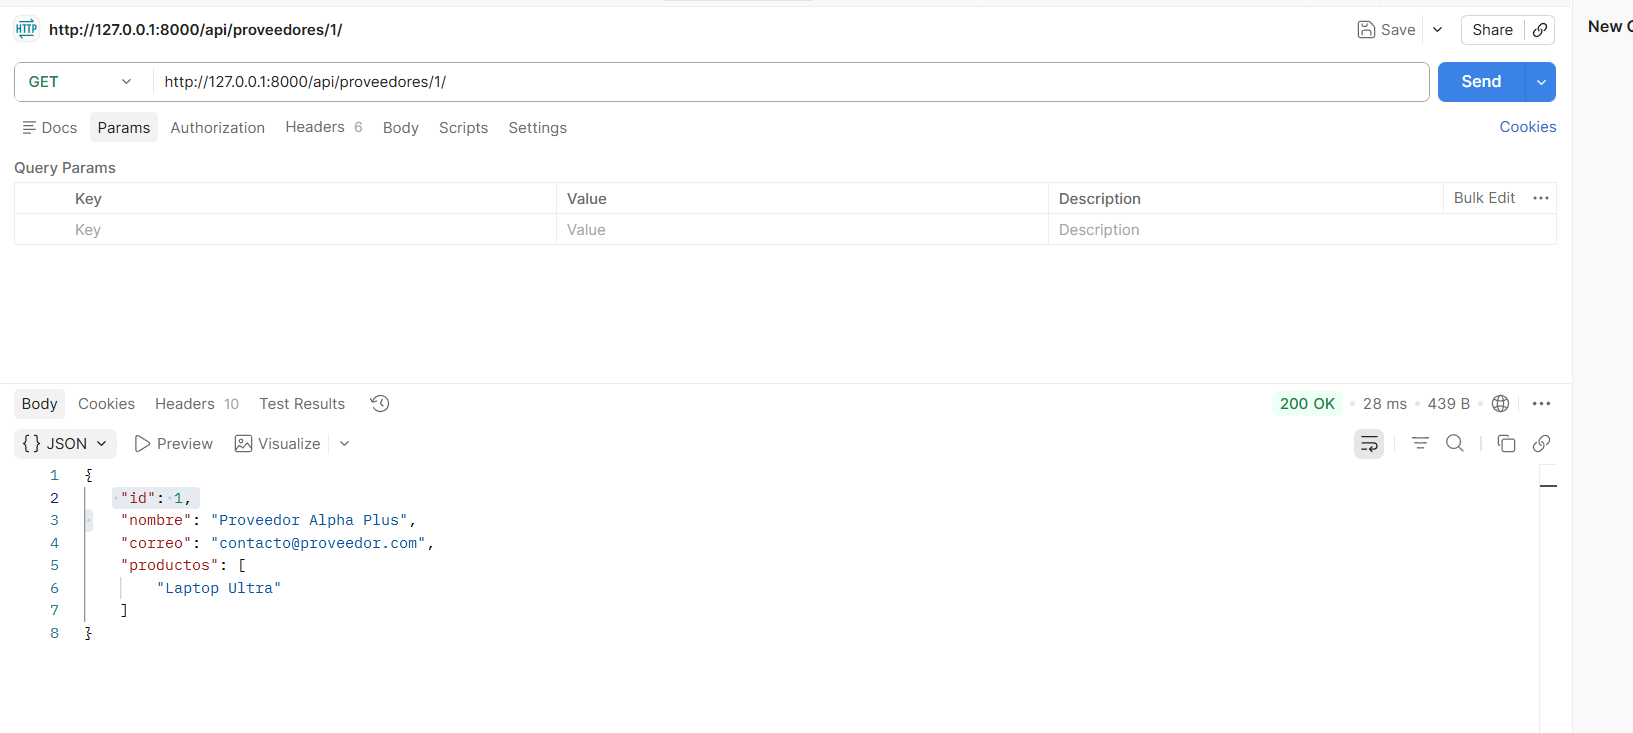
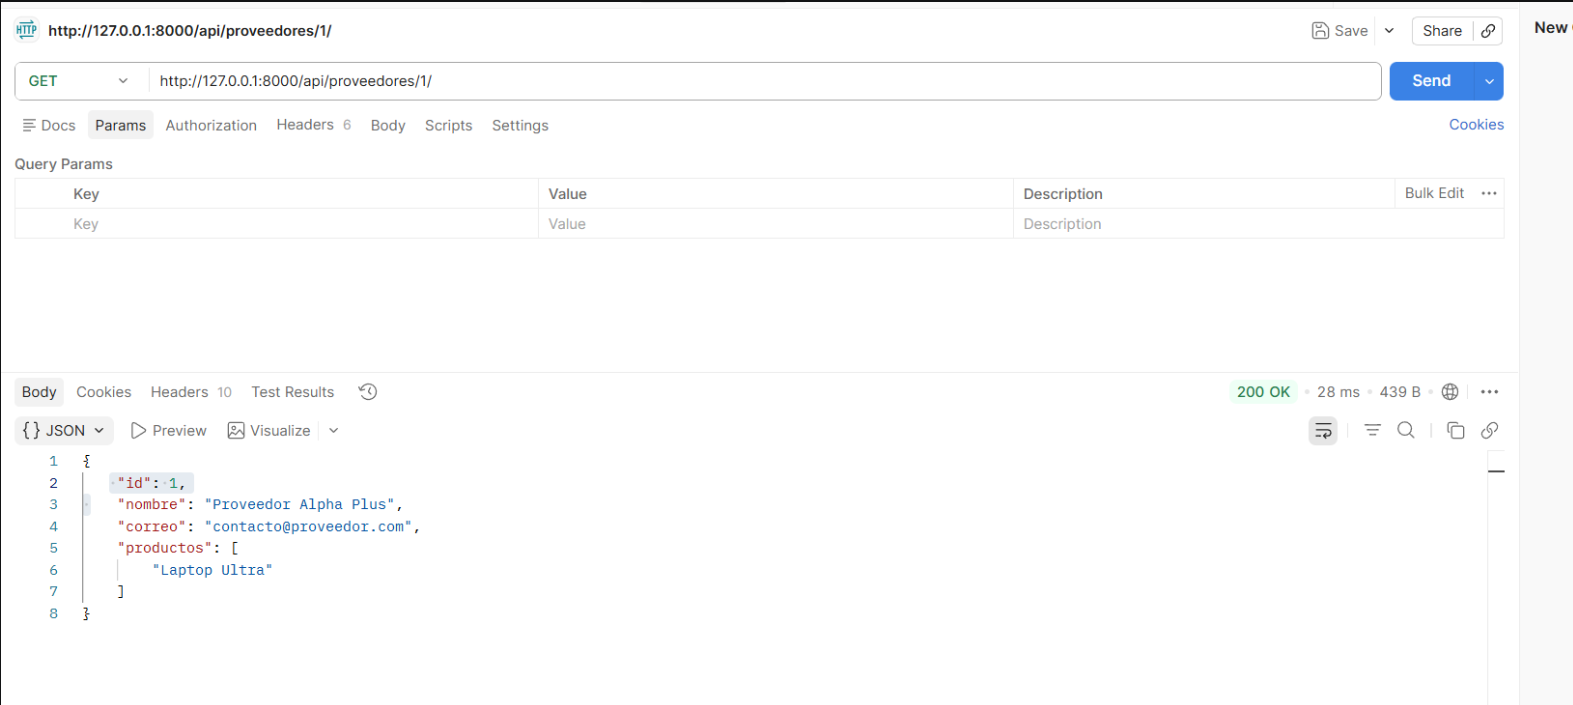
haciendo mejoras readme orden de png

diff --git a/README.md b/README.md
@@ -44,8 +44,7 @@ Este proyecto es una API RESTful desarrollada con Django y Django REST Framework
 **Listar productos:**
 
 curl -X GET http://localhost:8000/api/productos/
-![GET](listado_productos.png)
-
+![GET](docs/listado_producto.png)
 **Crear producto:**
 
 curl -X POST http://localhost:8000/api/productos/ 
@@ -56,18 +55,19 @@ curl -X GET "http://localhost:8000/api/productos/?search=Laptop"
 
 **editar_producto**
 ![PATCH](docs/editar_producto-id.png)
-**Relacion entidad2 con entidad1
-![GET](ddocs/relacion_producto.png)
+**Relacion entidad2 con entidad1**
+curl -X GET http://localhost:8000/api/productos/1/
+![GET](docs/relacion_producto.png)
 
-Relacion de proveedor yproducto
-![GET](rdocs/relacion_producto.png)
-eliminar produto con id :1
+**eliminar produto con id :1**
+curl -X DELETE http://localhost:8000/api/productos/1/
 ![DELETE](docs/eliminar_producto.png)
+
 
 **Listar proveedores:**
 
 curl -X GET http://localhost:8000/api/proveedores/
-![GET](docs/listado_proveedor.png  )
+![GET](docs/listado_proveedor.png)
 
 **Crear proveedor:**
 curl -X POST http://localhost:8000/api/proveedores/ 
@@ -75,7 +75,7 @@ curl -X POST http://localhost:8000/api/proveedores/
 **Usando PATCH**
 ![PATCH](docs/editar_proveedor..png)
 **Eliminando**
-![DELETE](/docs/eliminar_proveedor.png)
+![DELETE](docs/eliminar_proveedor.png)
 ### Tabla de funcionalidades
 
 